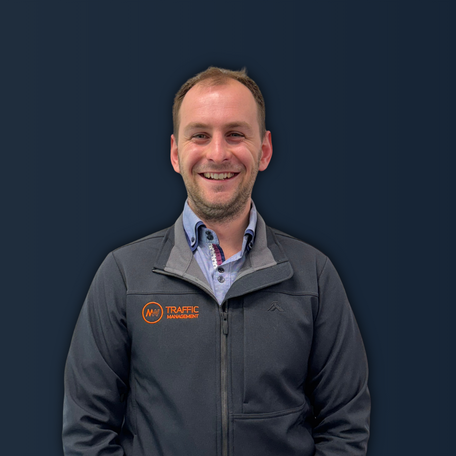
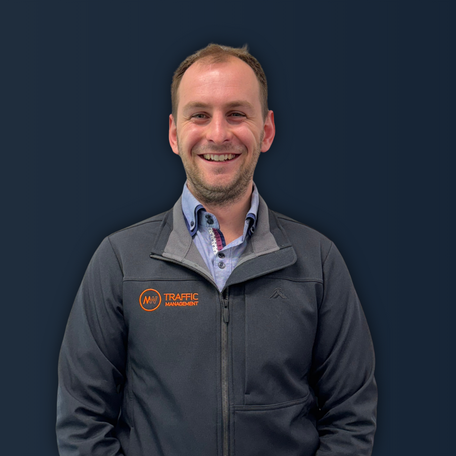
Cards changed

diff --git a/app/components/about/Timeline.tsx b/app/components/about/Timeline.tsx
@@ -5,10 +5,11 @@ type Milestone = {
   year: string
   title: string
   Icon: LucideIcon
+  subtext?: string
 }
 
 const milestones: Milestone[] = [
-  { year: '2008', title: 'Founded in Christchurch',          Icon: Flag         },
+  { year: '2008', title: 'Founded in Christchurch', Icon: Flag, subtext: 'Men at Work Traffic Management was founded in Christchurch.\nBuilt on a simple idea: reliable traffic management done properly.' },
   { year: '2012', title: 'Moved to Ohoka Rd, Kaiapoi',       Icon: Building2    },
   { year: '2017', title: 'Moved to Belfast Business Park',   Icon: Building2    },
   { year: '2017', title: 'Blenheim branch opens',           Icon: MapPin       },
@@ -19,7 +20,7 @@ const milestones: Milestone[] = [
   { year: '2025', title: 'The Temp Company established',     Icon: HardHat      },
 ]
 
-function MilestoneCard({ year, title, Icon, delayClass }: { year: string; title: string; Icon: LucideIcon; delayClass: string }) {
+function MilestoneCard({ year, title, Icon, delayClass, subtext }: { year: string; title: string; Icon: LucideIcon; delayClass: string; subtext?: string }) {
   return (
     <div className={`tl-card reveal ${delayClass}`} style={{ display: 'flex', flexDirection: 'column', gap: '6px' }}>
       <span className="tl-card-year">{year}</span>
@@ -31,6 +32,13 @@ function MilestoneCard({ year, title, Icon, delayClass }: { year: string; title:
         </h3>
         <Icon size={16} stroke="var(--orange)" strokeWidth={2} style={{ flexShrink: 0, opacity: 0.85 }} aria-hidden="true" />
       </div>
+      {subtext && (
+        <p style={{ fontSize: '0.78rem', lineHeight: 1.6, color: 'var(--muted)', marginTop: '6px' }}>
+          {subtext.split('\n').map((line, i) => (
+            <span key={i}>{line}{i < subtext.split('\n').length - 1 && <br />}</span>
+          ))}
+        </p>
+      )}
     </div>
   )
 }
@@ -143,18 +151,18 @@ export default function Timeline() {
 
                 {/* ── Desktop: alternating layout ── */}
                 <div className="tl-side tl-side--left tl-desktop">
-                  {isLeft && <MilestoneCard year={m.year} title={m.title} Icon={m.Icon} delayClass={delayClass} />}
+                  {isLeft && <MilestoneCard year={m.year} title={m.title} Icon={m.Icon} delayClass={delayClass} subtext={m.subtext} />}
                 </div>
                 <div className="tl-spine-col tl-desktop" aria-hidden="true">
                   <div className="tl-dot" />
                 </div>
                 <div className="tl-side tl-side--right tl-desktop">
-                  {!isLeft && <MilestoneCard year={m.year} title={m.title} Icon={m.Icon} delayClass={delayClass} />}
+                  {!isLeft && <MilestoneCard year={m.year} title={m.title} Icon={m.Icon} delayClass={delayClass} subtext={m.subtext} />}
                 </div>
 
                 {/* ── Mobile: stacked layout ── */}
                 <div className="tl-mobile" style={{ width: '100%', paddingBottom: '4px' }}>
-                  <MilestoneCard year={m.year} title={m.title} Icon={m.Icon} delayClass={delayClass} />
+                  <MilestoneCard year={m.year} title={m.title} Icon={m.Icon} delayClass={delayClass} subtext={m.subtext} />
                 </div>
 
               </div>

diff --git a/app/about-us/page.tsx b/app/about-us/page.tsx
@@ -68,7 +68,7 @@ const leadershipImages: Record<string, string> = {
   'Daniel Adams': '/leadership/daniel_adams.png',
   'Kurt Puryer-Smith': '/leadership/kurt_puryersmith.png',
   'Brock Vuleta': '/leadership/brock_vuleta.png',
-  'Royden van Dyk': '/leadership/pete_manahi.png',
+  'Royden van Dyk': '/leadership/royden_vandyk.png',
 }
 
 /* ── Page ── */
